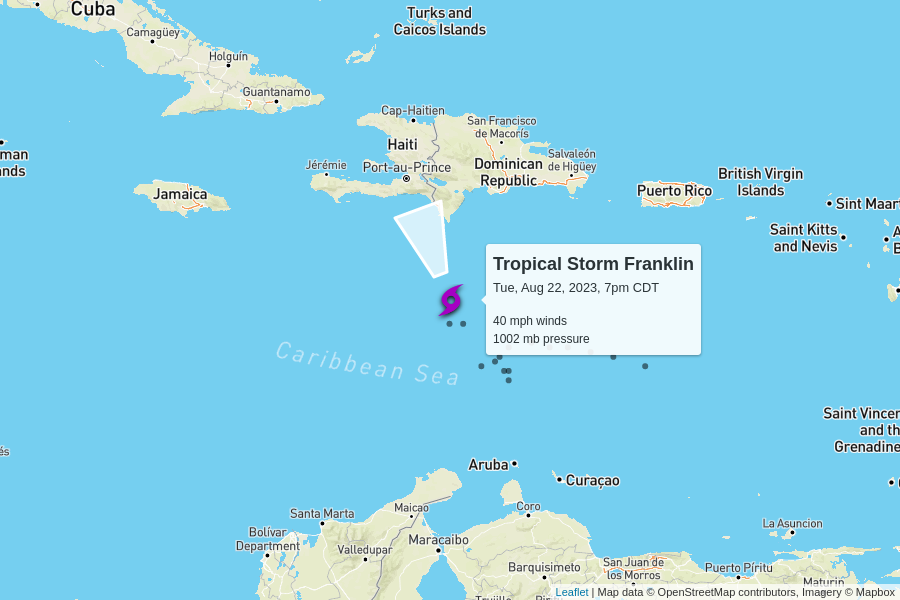
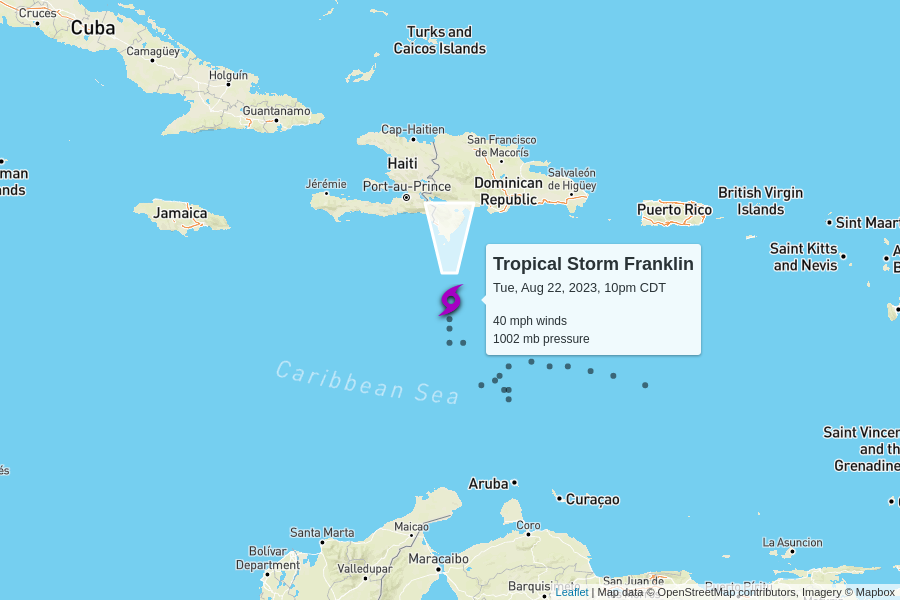
automatic update

diff --git a/docs/index.html b/docs/index.html
@@ -100,7 +100,7 @@
         <td colspan="6" class="storm category-0" >
           <h2>
             Tropical Storm Franklin
-            <p class="updated">last updated <span data-time>2023-08-23T00:00:00.000Z</span></p>
+            <p class="updated">last updated <span data-time>2023-08-23T03:00:00.000Z</span></p>
           </h2>
         </td>
       </tr>
@@ -118,9 +118,9 @@
         <td>40 mph</td>
         <td>1002 mb</td>
         <td>
-          6 mph to the north-northwest
+          9 mph to the north
           <br/>
-          <span style="display: inline-block; font-size: 1.5em; transform: rotate(340deg);">↑</span>
+          <span style="display: inline-block; font-size: 1.5em; transform: rotate(360deg);">↑</span>
         </td>
         <td><a href="https://raw.githubusercontent.com/mgwalker/atlantic-hurricanes/main/data/csv/AL082023.csv">AL082023.csv</a></td>
         <td><a href="https://www.nhc.noaa.gov/archive/2023/FRANKLIN.shtml?">NHC advisories</a></td>
@@ -141,13 +141,35 @@
       
 
       <tr>
-        <td colspan="6" class="storm category-0" style="cursor:pointer;" onClick="toggle('AL092023')">
-          <h2>🏁 Harold
+        <td colspan="6" class="storm category-0" >
+          <h2>
+            Tropical Depression Harold
+            <p class="updated">last updated <span data-time>2023-08-23T03:00:00.000Z</span></p>
           </h2>
         </td>
       </tr>
       
-      <tr id="storm_AL092023" style="display:none;">
+      <tr>
+        <th class="spacer"></th>
+        <th>wind speed</th>
+        <th>central pressure</th>
+        <th>movement</th>
+        <th>data (CSV)</th>
+        <th>National Hurricane Center</th>
+      </tr>
+      <tr>
+        <td class="spacer"></td>
+        <td>35 mph</td>
+        <td>1002 mb</td>
+        <td>
+          18 mph to the west-northwest
+          <br/>
+          <span style="display: inline-block; font-size: 1.5em; transform: rotate(300deg);">↑</span>
+        </td>
+        <td><a href="https://raw.githubusercontent.com/mgwalker/atlantic-hurricanes/main/data/csv/AL092023.csv">AL092023.csv</a></td>
+        <td><a href="https://www.nhc.noaa.gov/archive/2023/HAROLD.shtml?">NHC advisories</a></td>
+      </tr>
+      <tr id="storm_AL092023" >
         <td class="spacer">
         <td colspan="5">
           <figure>
